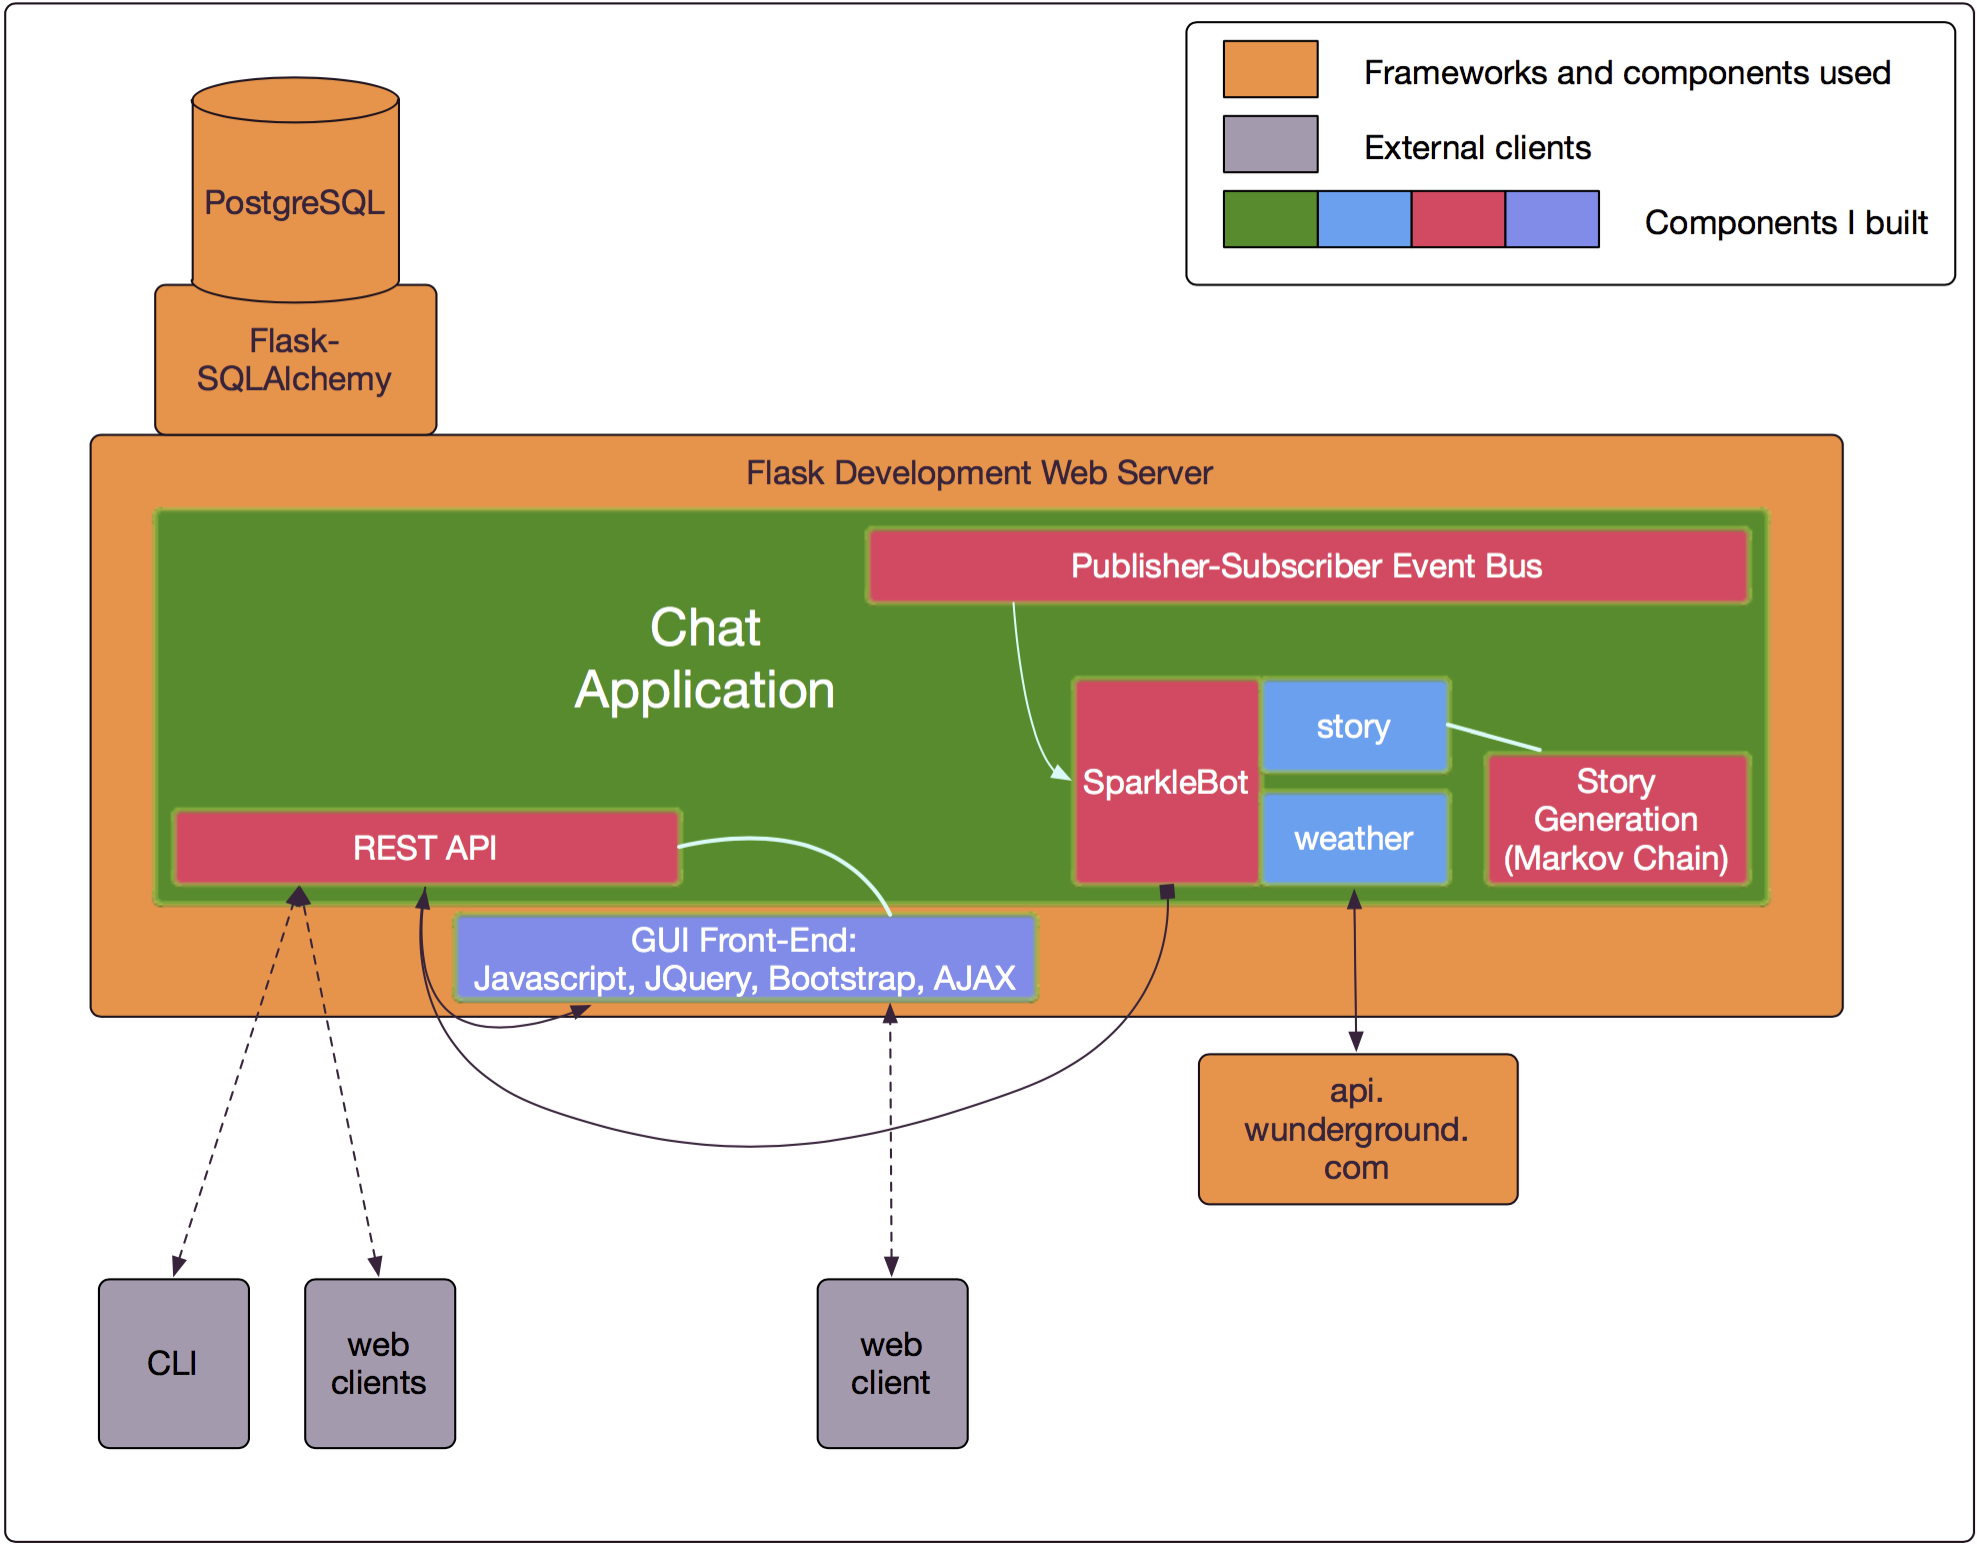
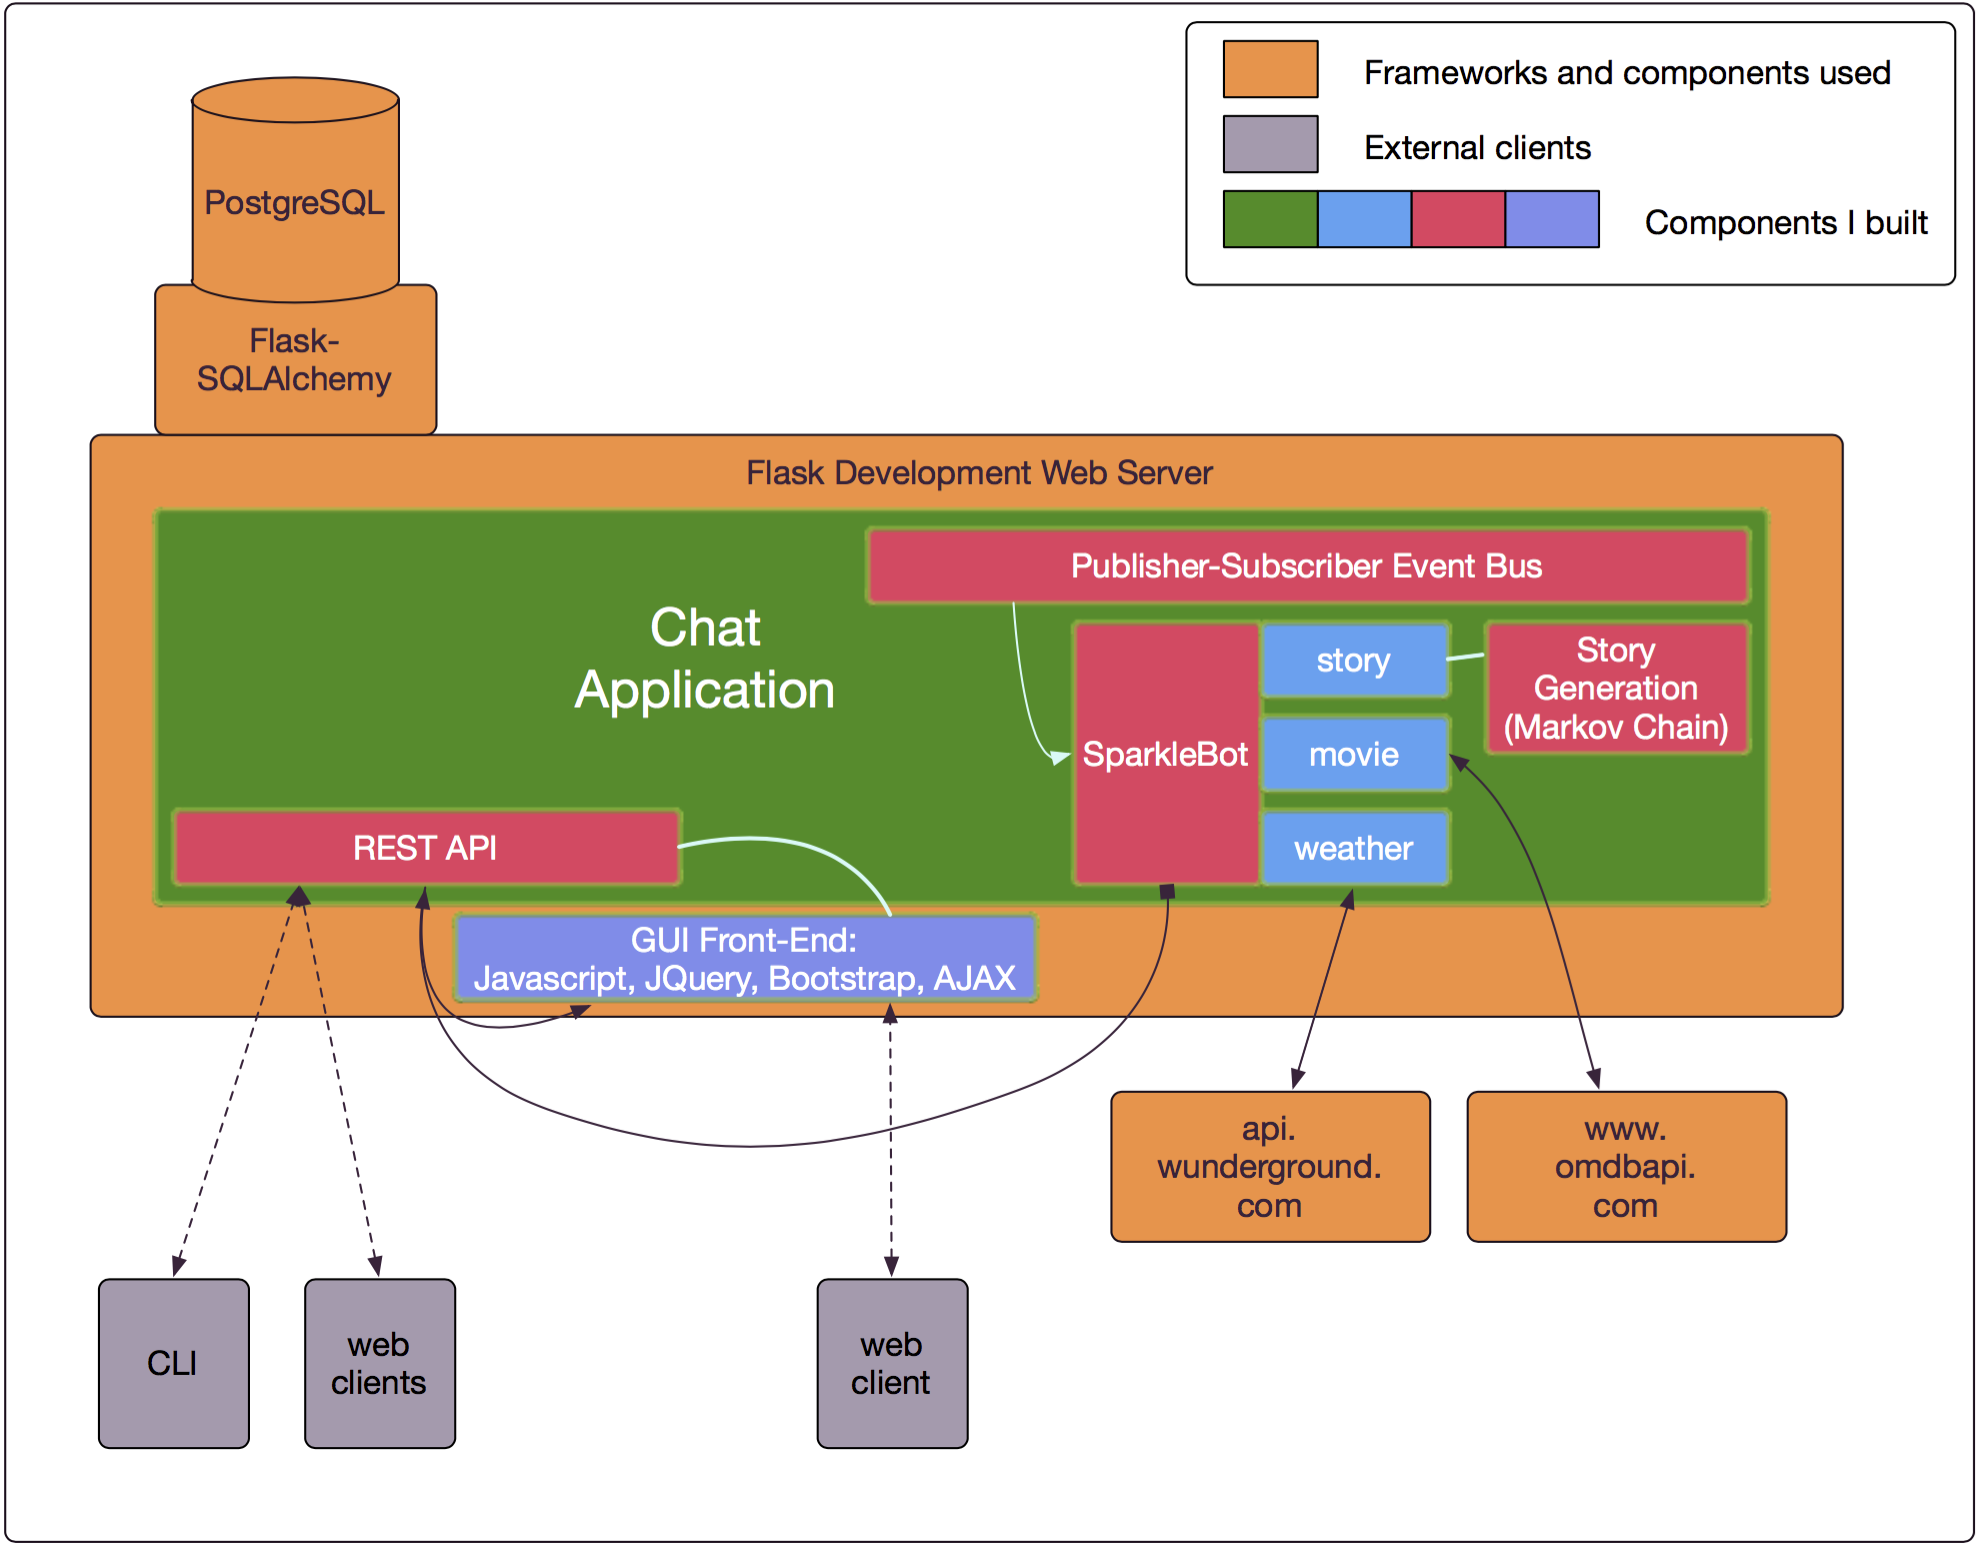
updated diagram and bot to handle movies

Changed region(s): [[0.5245, 0.4039, 0.8948, 0.5903], [0.5554, 0.6524, 0.9256, 0.8078]]

diff --git a/listener.py b/listener.py
@@ -11,7 +11,7 @@ import urllib2
 import pprint
 from threading import Timer
 from weather_api import WeatherAPI
-from netflixroulette_api import NetflixRouletteAPI
+from movie_api import MovieAPI
 from event import Event
 from bus import Bus
 from markov import Markov
@@ -59,6 +59,7 @@ class SparkleBot(Listener):
     def handle_event(self, event):
         event_keywords = {
             'weather': ['zipcode'],
+            'movie': ['title'],
             'story': [],
             'help': []}
         # print "SparkleBot is handling event {}".format(event)
@@ -98,6 +99,8 @@ class SparkleBot(Listener):
                     self.do_weather(event)
                 elif "story" in msg_data:
                     self.do_story(event)
+                elif "movie" in msg_data:
+                    self.do_movie(event)
                 elif "help" in msg_data or "halp" in msg_data:
                     self.do_help(event, event_keywords)
             else:
@@ -177,10 +180,57 @@ class SparkleBot(Listener):
 
         # Post the response
         self.post_result(room_id, message)
+        return message
 
-    def do_netflixr(self, search_term):
-        # http://netflixroulette.net/api/api.php?title=The%20Boondocks
-        pass
+    def do_movie(self, event):
+        # print "doin' le MOVIE"       
+        # pp = pprint.PrettyPrinter()
+        msg_data = event.data.get('data')
+        requestor_name = event.data.get('user_name')
+        room_id = event.data.get('room_id')
+        # Process the requested title
+        title_keywords = ' '.join(msg_data.split()[2:]).strip()
+        # pp.pprint(title_keywords)
+        # print "Parsing complete -", title_keywords
+        movie_response = MovieAPI.get_plot(title_keywords)
+        # pp.pprint(movie_response)
+
+    # {u'Actors': u'Jane Fonda, Lily Tomlin, Sam Waterston, Martin Sheen',
+    #  u'Awards': u'Nominated for 1 Golden Globe. Another 1 win & 14 nominations.',
+    #  u'Country': u'USA',
+    #  u'Director': u'N/A',
+    #  u'Genre': u'Comedy',
+    #  u'Language': u'English',
+    #  u'Metascore': u'N/A',
+    #  u'Plot': u'Finding out that their husbands are not just work partners, but have also been romantically involved for the last 20 years, two women with an already strained relationship try to cope with the circumstances together.',
+    #  u'Poster': u'http://ia.media-imdb.com/images/M/MV5BMTgwNTkyOTIwOF5BMl5BanBnXkFtZTgwMDg0MTQ1ODE@._V1_SX300.jpg',
+    #  u'Rated': u'TV-MA',
+    #  u'Released': u'08 May 2015',
+    #  u'Response': u'True',
+    #  u'Runtime': u'30 min',
+    #  u'Title': u'Grace and Frankie',
+    #  u'Type': u'series',
+    #  u'Writer': u'Marta Kauffman, Howard J. Morris',
+    #  u'Year': u'2015\u2013',
+    #  u'imdbID': u'tt3609352',
+    #  u'imdbRating': u'8.1',
+    #  u'imdbVotes': u'9,416'}
+        movie_title = movie_response.get('Title')
+        movie_writer = movie_response.get('Writer').split(',')[0]
+        movie_plot = movie_response.get('Plot').strip()
+
+        # Create the response payload
+        message = "{}, '{}' was primarily written by {} and the plot summary is: {}".format(
+            requestor_name,
+            movie_title,
+            movie_writer,
+            movie_plot)
+
+        # pp.pprint(message)
+
+        # Post the response
+        self.post_result(room_id, message)
+        return message
 
     def post_result(self, room_id, message):
         '''Posts a message back to the server using the API'''
@@ -231,7 +281,7 @@ class BabbleBot(Listener):
         post_request = urllib2.Request(endpoint, data)
         post_response = urllib2.urlopen(post_request)
         response = post_response.read()
-        print response
+        # print response
 
 
 # GET request
@@ -290,13 +340,18 @@ if __name__ == '__main__':
     bus = Bus()
     sparkle = SparkleBot("sparkle", bus)
 
-    event1 = Event(
+    weather_event = Event(
                    Event.Types.message_created_event,
-                   {"room_id":1, "data": "Pyro weather 94301", "user_id": 123})
+                   {"room_id":1, "data": "Pyro weather 94301", 'user_name': 'Balloonicorn', "user_id": 1})
+    w_out = sparkle.do_weather(weather_event)
+    print w_out
 
-    out = sparkle.do_weather(event1)
 
-    print out
+    movie_event = Event(
+                   Event.Types.message_created_event,
+                   {"room_id":1, "data": "Pyro movie grace and frankie", 'user_name': 'Balloonicorn', "user_id": 1})
+    m_out = sparkle.do_movie(movie_event)
+    print m_out
 
 
 

diff --git a/movie_api.py b/movie_api.py
@@ -1,0 +1,64 @@
+# '''API wrapper class'''
+# pylint: disable=I0011,C0103
+import pprint
+import json
+import urllib
+import urllib2
+
+class MovieAPI(object):
+    """docstring for NetflixRouletteAPI"""
+
+    @staticmethod
+    def get_plot(title_keywords):
+        '''Wrapper function for getting a movie plot by title'''
+
+        # The Open Movie Database call
+        print title_keywords
+        values = {"t":title_keywords}
+        print "values dict: ", values
+        value = urllib.urlencode(values)
+        uri = "http://www.omdbapi.com/?{}&plot=full".format(value)
+        print "uri is ", uri
+        response = urllib2.urlopen(uri)
+        resp = json.loads(response.read())
+
+        # Function stub for testing
+        # This is a hardcoded sample json response from API endpoint
+        # response = '{"unit":7474,"show_id":70153391,"show_title":"The Boondocks","release_year":"2005","rating":"4.0","category":"TV Shows","show_cast":"Regina King, John Witherspoon, Cedric Yarbrough, Gary Anthony Williams, Jill Talley, Gabby Soleil","director":"","summary":"Based on the comic strip by Aaron McGruder, this satirical animated series follows the socially conscious misadventures of Huey Freeman, a preternaturally smart 10-year-old who relocates from inner-city Chicago to the suburbs.","poster":"http:\/\/netflixroulette.net\/api\/posters\/70153391.jpg","mediatype":1,"runtime":"20 min"}'
+        # resp = json.loads(response)
+        print resp
+        return resp
+
+if __name__ == '__main__':
+    pp = pprint.PrettyPrinter()
+    # resp = get_all_data('House')
+    # print type(resp)
+    # pp.pprint(resp)
+
+    resp = MovieAPI.get_plot('grace and frankie')
+    pp.pprint(resp)
+
+
+# $ curl 'http://www.omdbapi.com/?t=grace%20and%20frankie&plot=full'|jq .
+# {
+#   "Title": "Grace and Frankie",
+#   "Year": "2015-",
+#   "Rated": "TV-MA",
+#   "Released": "08 May 2015",
+#   "Runtime": "30 min",
+#   "Genre": "Comedy",
+#   "Director": "N/A",
+#   "Writer": "Marta Kauffman, Howard J. Morris",
+#   "Actors": "Jane Fonda, Lily Tomlin, Sam Waterston, Martin Sheen",
+#   "Plot": "Finding out that their husbands are not just work partners, but have also been romantically involved for the last 20 years, two women with an already strained relationship try to cope with the circumstances together.",
+#   "Language": "English",
+#   "Country": "USA",
+#   "Awards": "Nominated for 1 Golden Globe. Another 1 win & 14 nominations.",
+#   "Poster": "http://ia.media-imdb.com/images/M/MV5BMTgwNTkyOTIwOF5BMl5BanBnXkFtZTgwMDg0MTQ1ODE@._V1_SX300.jpg",
+#   "Metascore": "N/A",
+#   "imdbRating": "8.1",
+#   "imdbVotes": "9,416",
+#   "imdbID": "tt3609352",
+#   "Type": "series",
+#   "Response": "True"
+# }

diff --git a/model.py b/model.py
@@ -491,7 +491,7 @@ def connect_to_db(app, db_uri="postgresql:///chatty"):
     '''
     app.config['SQLALCHEMY_DATABASE_URI'] = db_uri
     app.config['SQLALCHEMY_TRACK_MODIFICATIONS'] = False
-    app.config['SQLALCHEMY_ECHO'] = True
+    # app.config['SQLALCHEMY_ECHO'] = True
     db.app = app
     db.init_app(app)
 
